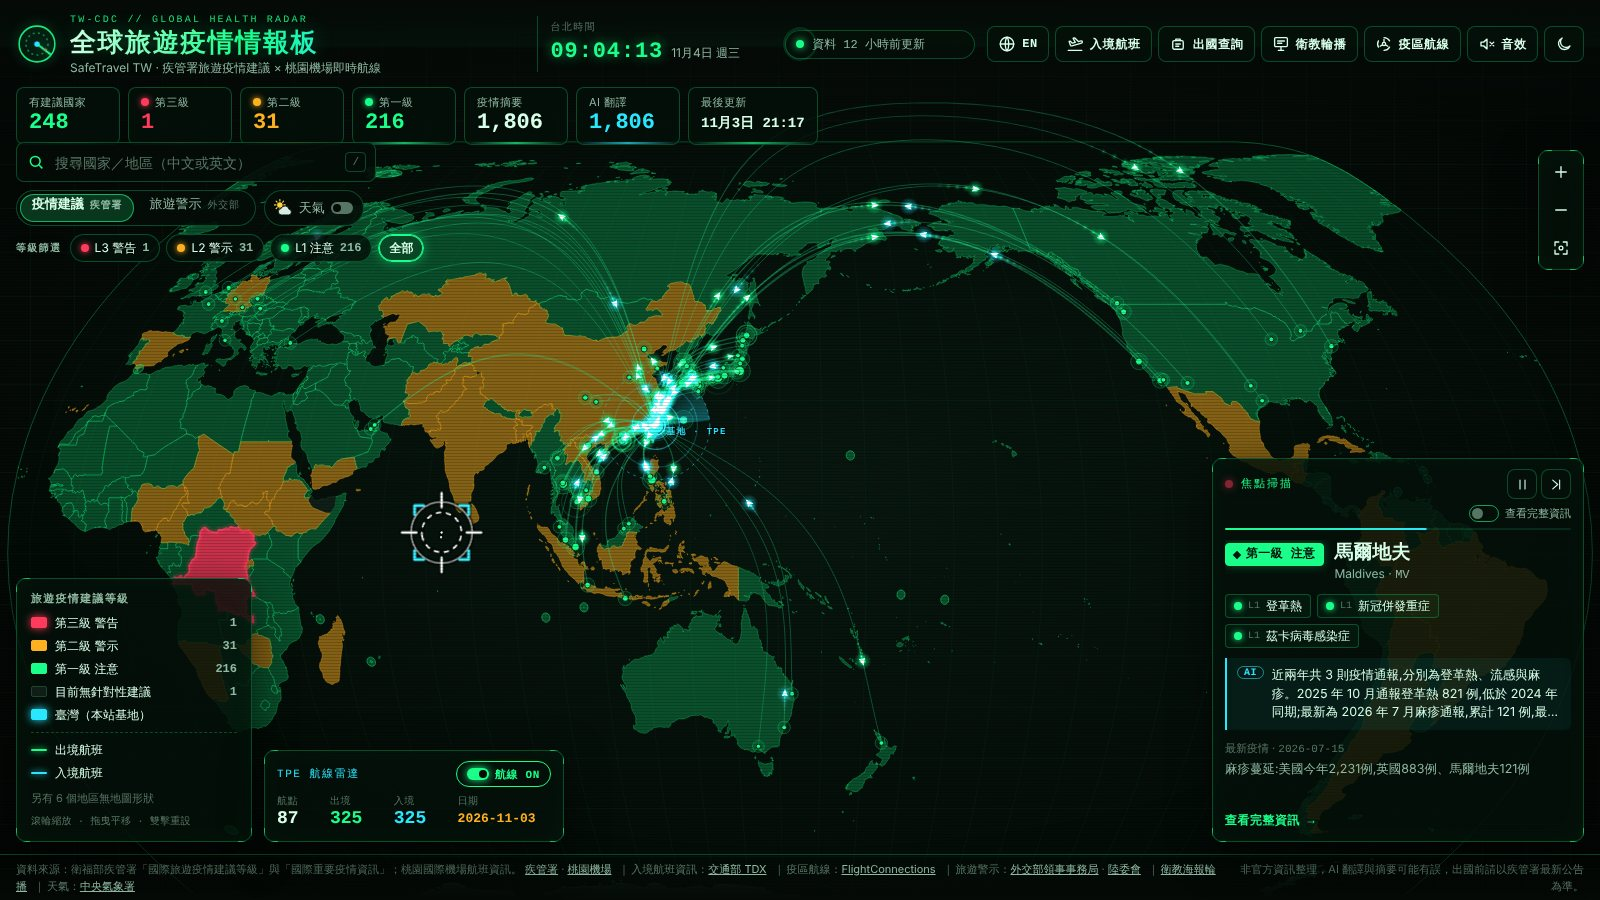
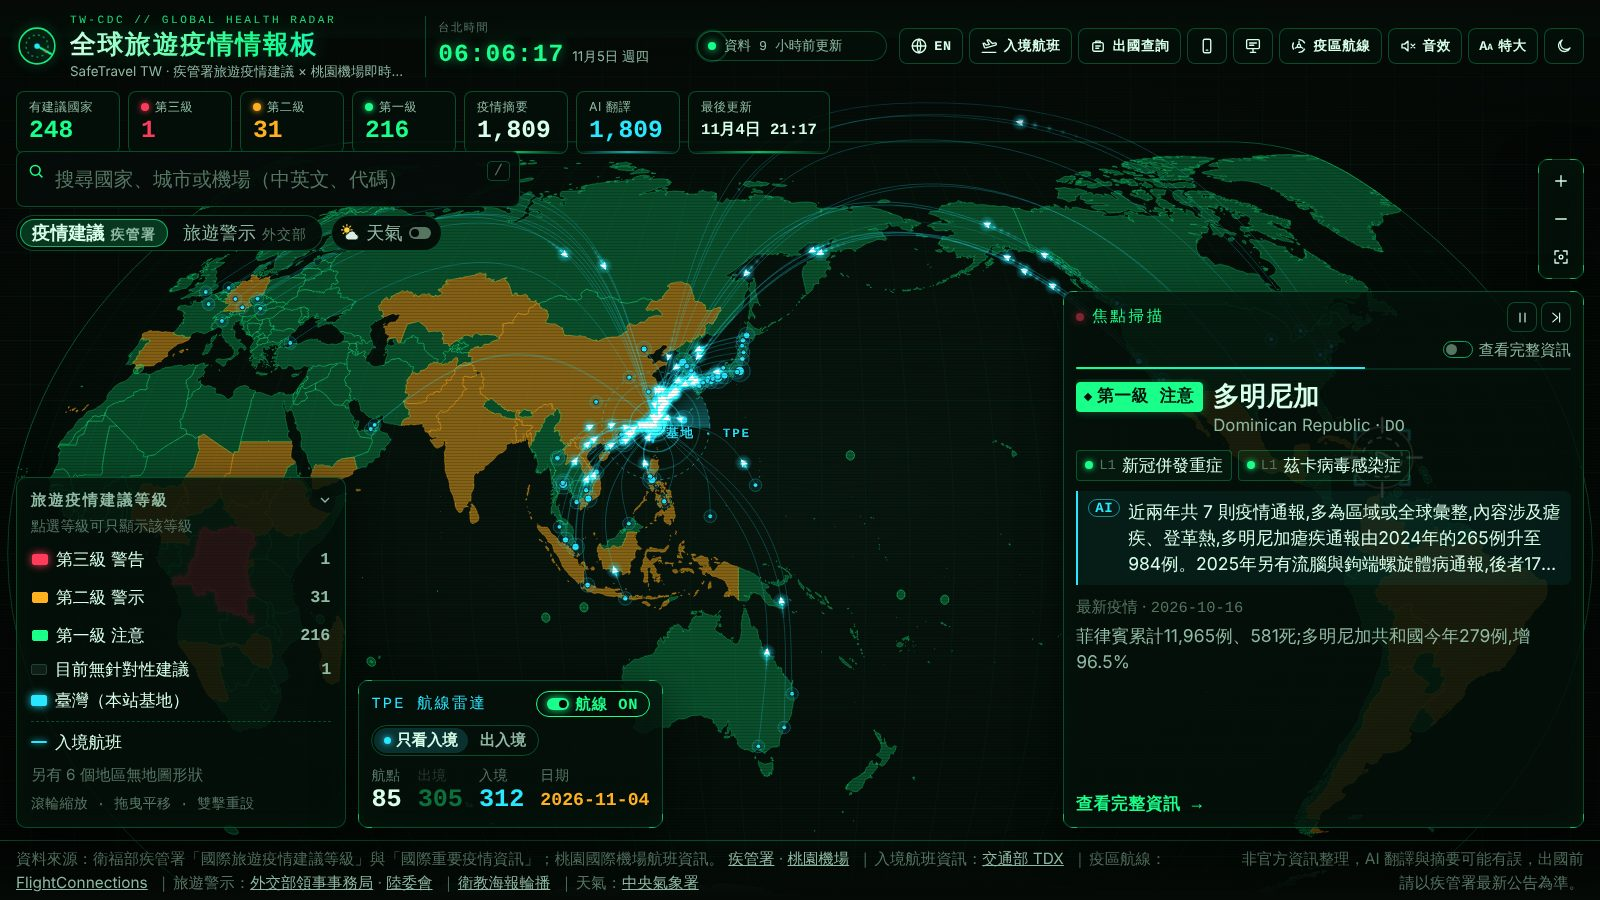
README: retake screenshots, add the new pages; header fit fixes found while shooting
Screenshots retaken with today's UI (same sizes as before) and five new ones: the legend as level
filter (L2+L3 only, inbound routes), the full-screen arrivals.html, the phone menu, and the
quick check (m.html) for staff (dark, flights from L2+ areas) and travellers (light, Japan card).
The gallery now has a third row of phone shots. Text: the inbound board's time window, L2+
highlight and arrivals.html in the feature list; where the poster link lives on phones and narrow
screens.

Header fixes (the quick-check link made the title row tight):
- quick-check and poster links are icons below 1800 px (quick check always icon-only in English);
- the decorative "TW-CDC // GLOBAL HEALTH RADAR" line never wraps;
- with a left-docked arrivals board the route box hides below 1800 px (at 1600 px it sat under
  the spotlight card); the board's "INBOUND // ±60 MIN" line stays on one row.
Checked at 1080x1920, 1600, 1700, 1800, 1920, 2000 px (zh and en): no new clipping.

Smoke: main 32, trip 26 pass.

Claude-Session: https://claude.ai/code/session_017VhcC5b1jMPMqxVKmWFQbm

diff --git a/web/styles.css b/web/styles.css
@@ -1260,7 +1260,7 @@ body.arr-open .flights-canvas { opacity: .35; }
 .arr-hub-dot { fill: var(--cyan); }
 @keyframes arr-hub { from { transform: scale(.3); opacity: 1; } to { transform: scale(1.6); opacity: 0; } }
 
-@media (max-width: 1599px) { /* a left-docked board + legend leave no room for the route box beside the spotlight */
+@media (max-width: 1799px) { /* a left-docked board + legend leave no room for the route box beside the spotlight */
   body.arr-dock-left .flight-hud { display: none; }
 }
 /* portrait wall screens (1080x1920): the spotlight card spans most of the width, so the route box sits on top of the
@@ -1842,3 +1842,10 @@ body.panel-open .wx-bar { transform: translateX(calc(-1 * (var(--panel-w) + var(
 }
 /* narrow desktops: the poster link (also in the footer and the arrivals board) leaves the header so the title fits */
 @media (max-width: 1365px) and (min-width: 761px) and (orientation: landscape) { .hud .toggles > .slides-link { display: none; } }
+/* below 1800 px (2000 px in English) the quick-check and poster links show icons only, so the title row fits */
+@media (max-width: 1799px) { .m-link span[data-i18n], .slides-link span[data-i18n] { display: none; } }
+:root[lang="en"] .m-link span[data-i18n] { display: none; } /* English labels are longer: icon only (title says what it is) */
+.arr-heading { min-width: 0; }
+.arr-kicker { white-space: nowrap; max-width: 100%; overflow: hidden; }
+.brand-text { min-width: 0; }
+.brand-kicker { white-space: nowrap; overflow: hidden; text-overflow: ellipsis; } /* decorative line: never wraps the header */
